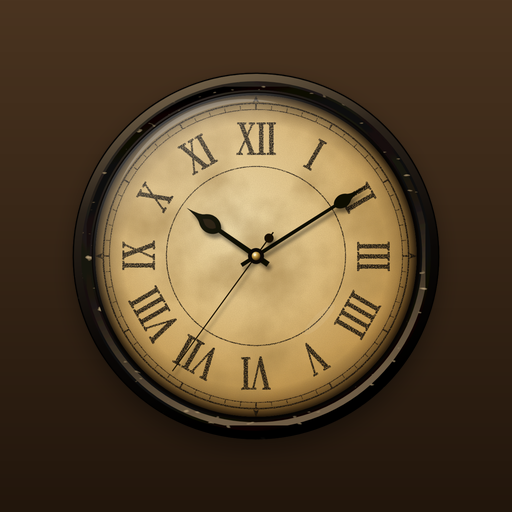
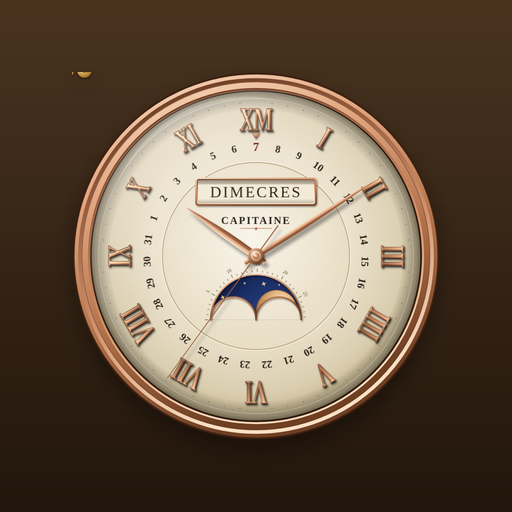
Add files via upload

diff --git a/index.html b/index.html
@@ -817,7 +817,8 @@
   /* finestres verticals */
   html.nit .full-cara *{ color:var(--nit) !important; text-shadow:none !important; }
   html.nit .full-titol::before, html.nit .full-titol::after{ background: var(--nit) !important; }
-  html.nit .icona-cel{ filter: grayscale(1) sepia(1) saturate(7) hue-rotate(-28deg) brightness(.95); }
+  /* de nit, les icones del temps en el mateix taronja, però apagat i difuminat (no enlluernen) */
+  html.nit .icona-cel, html.nit .h12 svg, html.nit .d5 svg{ filter: url(#filtreNitIcona); }
   html.nit .avisos li{ background: rgba(255,90,31,.08) !important; border-left-color: var(--nit) !important; }
   html.nit .avisos svg{ stroke:var(--nit) !important; }
 
@@ -907,8 +908,13 @@
   </div>
 </div>
 <svg width="0" height="0" style="position:absolute" aria-hidden="true">
+  <!-- de nit: la icona del temps passa al taronja de nit, apagat i amb la vora difuminada -->
+  <filter id="filtreNitIcona" color-interpolation-filters="sRGB" x="-10%" y="-10%" width="120%" height="120%">
+    <feColorMatrix type="matrix" values="0.13 0.45 0.045 0 0   0.046 0.157 0.016 0 0   0.016 0.054 0.005 0 0   0 0 0 1 0" result="t"/>
+    <feGaussianBlur in="t" stdDeviation="0.9"/>
+  </filter>
   <filter id="filtreLume" color-interpolation-filters="sRGB">
-    <feColorMatrix type="matrix" values="0.05 0.1 0.02 0 0   0.33 0.62 0.12 0 0.08   0.12 0.22 0.04 0 0.02   0 0 0 1 0"/>
+    <feColorMatrix type="matrix" values="0.03 0.055 0.011 0 0   0.18 0.34 0.066 0 0.03   0.066 0.12 0.022 0 0.01   0 0 0 1 0"/>
   </filter>
 </svg>
 <div class="botonera-esq">
@@ -1366,7 +1372,7 @@ window.__aniv = (function(){
     ombresBusques(defs, 'a');
     gradient(defs, 'linearGradient', 'aNegre', {x1:'0', y1:'0', x2:'1', y2:'0'}, [['0%','#030201'],['42%','#1d1710'],['52%','#5a4e40'],['100%','#060403']]);
 
-    // Corona bisellada esglaonada (la mateixa de BLANCPAIN), en coure vell enfosquit
+    // Corona bisellada esglaonada (la mateixa de CAPITAINE), en coure vell enfosquit
     gradient(defs, 'linearGradient', 'aCoure', {x1:'0', y1:'0', x2:'0.35', y2:'1'}, [['0%','#d6a77f'],['30%','#a36a45'],['62%','#6e4127'],['100%','#331a0c']]);
     gradient(defs, 'linearGradient', 'aCoureInv', {x1:'0.35', y1:'1', x2:'0', y2:'0'}, [['0%','#c99772'],['35%','#8a5636'],['70%','#55301b'],['100%','#28140a']]);
     const fCV = el('filter', {id:'aCoureVell', x:'0', y:'0', width:'100%', height:'100%'}, defs);
@@ -1428,14 +1434,14 @@ window.__aniv = (function(){
       el('path', {d:'M 0,-8 L 5,4 L 0,1.5 L -5,4 Z', transform:`translate(${px(254,a)} ${py(254,a)}) rotate(${a})`, stroke:'none', fill:'#1a1209', class:'lume'}, tinta);
     }
     numeralRomans(tinta, 194, 66, {stroke:'none', fill:'#1a1209'}, {sx:0.7, sy:1.22, ls:-2}).classList.add('lume');
-    // Marca de la casa a la meitat inferior: «XM», amb la mateixa lletra que les XII de BLANCPAIN
+    // Marca de la casa a la meitat inferior: «XM», amb la mateixa lletra que les XII de CAPITAINE
     const marcaA = el('g', {transform:`translate(${C} ${C+82}) scale(0.72 1.18)`}, tinta);
     el('text', {x:0, y:0, 'text-anchor':'middle', 'dominant-baseline':'central', 'font-family':'Cinzel, serif', 'font-weight':700,
       'font-size':38, 'letter-spacing':-1, stroke:'none', fill:'#1a1209'}, marcaA).textContent = 'XM';
     el('line', {x1:C-22, y1:C+108, x2:C+22, y2:C+108, stroke:'#1a1209', 'stroke-width':.9}, tinta);
     el('path', {d:`M ${C},${C+105} L ${C+3},${C+108} L ${C},${C+111} L ${C-3},${C+108} Z`, stroke:'none', fill:'#1a1209'}, tinta);
 
-    // ---- Visor del dia de la setmana (com el de BLANCPAIN, però amb fons de pergamí) ----
+    // ---- Visor del dia de la setmana (com el de CAPITAINE, però amb fons de pergamí) ----
     const AX = C-80, AY = C-114, AW = 160, AH = 34;
     gradient(defs, 'linearGradient', 'aVisorPaper', {x1:'0', y1:'0', x2:'0', y2:'1'}, [['0%','#f1dcae'],['55%','#e6c993'],['100%','#d4b072']]);
     gradient(defs, 'linearGradient', 'aOmbraVisor', {x1:'0', y1:'0', x2:'0', y2:'1'}, [['0%','#2a1604',.42],['24%','#2a1604',0],['80%','#2a1604',0],['100%','#2a1604',.28]]);
@@ -1603,7 +1609,7 @@ window.__aniv = (function(){
     // ---- Nom de la casa, imprès a l'esfera ----
     const nomCasa = el('text', {x:C, y:C-58, 'text-anchor':'middle', 'dominant-baseline':'central',
       'font-family':'Cinzel, serif', 'font-weight':700, 'font-size':17, 'letter-spacing':2.2, fill:'#2c241c'}, svg);
-    nomCasa.textContent = 'BLANCPAIN';
+    nomCasa.textContent = 'CAPITAINE';
     el('line', {x1:C-26, y1:C-45, x2:C+26, y2:C-45, stroke:'#b97752', 'stroke-width':.9}, svg);
     el('path', {d:`M ${C},${C-48} L ${C+3},${C-45} L ${C},${C-42} L ${C-3},${C-45} Z`, fill:'url(#cOrRosa)'}, svg);
 
@@ -1758,7 +1764,7 @@ window.__aniv = (function(){
     gradient(defs, 'radialGradient', 'dLluna', {cx:'40%', cy:'35%', r:'70%'}, [['0%','#fbfbf7'],['55%','#d9dad6'],['100%','#9c9fa3']]);
     gradient(defs, 'radialGradient', 'dCrater', {cx:'45%', cy:'40%', r:'60%'}, [['0%','#8e9195',.55],['70%','#a9acaf',.35],['100%','#ffffff',.25]]);
     gradient(defs, 'radialGradient', 'dOmbraInt', {cx:'50%', cy:'50%', r:'50%'}, [['84%','#3a2a14',0],['96%','#3a2a14',.22],['100%','#2a1a08',.5]]);
-    // Verd maragda: el mateix dels dissabtes a la finestra de BLANCPAIN
+    // Verd maragda: el mateix dels dissabtes a la finestra de CAPITAINE
     gradient(defs, 'linearGradient', 'dMaragdaV', {x1:'0', y1:'0', x2:'0', y2:'1'}, [['0%','#1f8a64'],['50%','#0f6b4c'],['100%','#094a35']]);
     gradient(defs, 'linearGradient', 'dBurdeusV', {x1:'0', y1:'0', x2:'0', y2:'1'}, [['0%','#9a2a24'],['50%','#7a1a16'],['100%','#55100e']]);
     gradient(defs, 'linearGradient', 'dCobaltV', {x1:'0', y1:'0', x2:'0', y2:'1'}, [['0%','#2f62c4'],['50%','#0047ab'],['100%','#002e73']]);
@@ -1838,7 +1844,7 @@ window.__aniv = (function(){
     const turons = `A ${HR} ${HR} 0 0 0 ${C} ${CUSP} A ${HR} ${HR} 0 0 0 ${px(226,-angE)} ${py(226,-angE)}`;
     el('path', {d:`M ${px(226,-angE)} ${py(226,-angE)} A 226 226 0 0 1 ${px(226,angE)} ${py(226,angE)} ${turons} Z`}, clipCel);
     const cel = el('g', {'clip-path':'url(#dClipCel)'}, svg);
-    // Disc del firmament: gira mitja volta per llunació (com el de BLANCPAIN); la lluna plena passa sota el 12
+    // Disc del firmament: gira mitja volta per llunació (com el de CAPITAINE); la lluna plena passa sota el 12
     const firmament = el('g', {}, cel);
     el('circle', {cx:C, cy:C, r:228, fill:'url(#dCel)'}, firmament);
     gradient(defs, 'radialGradient', 'dViaLactia', {cx:'50%', cy:'50%', r:'50%'}, [['0%','#9fb4ff',.18],['100%','#9fb4ff',0]]);
@@ -1849,7 +1855,7 @@ window.__aniv = (function(){
       if (s > 0.9) el('path', {d:'M0,-5 L1.2,-1.2 L5,0 L1.2,1.2 L0,5 L-1.2,1.2 L-5,0 L-1.2,-1.2 Z', transform:`translate(${px(r,a).toFixed(1)} ${py(r,a).toFixed(1)}) scale(${(0.6+s*0.5).toFixed(2)})`, fill:'#fffbe8', class:'estel', style:`animation-delay:${(i*0.37)%2.6}s`}, firmament);
       else el('circle', {cx:px(r,a).toFixed(1), cy:py(r,a).toFixed(1), r:(0.4+s*1.1).toFixed(2), fill:'#ffffff', opacity:(0.35+s*0.6).toFixed(2)}, firmament);
     }
-    // estels grossos amb raigs, com els de BLANCPAIN, repartits pel cel
+    // estels grossos amb raigs, com els de CAPITAINE, repartits pel cel
     [[-150,-40,1.4],[-95,-120,1.1],[30,-150,1.25],[120,-95,1.0],[160,20,1.3],[95,110,1.1],[-20,160,1.2],[-120,95,1.0],[-60,40,.8],[60,-30,.85],[-170,60,.9],[150,-150,.8]].forEach(([x,y,s],i)=>{
       el('path', {d:'M0,-7 L1.4,-1.4 L7,0 L1.4,1.4 L0,7 L-1.4,1.4 L-7,0 L-1.4,-1.4 Z', transform:`translate(${C+x} ${C+y}) scale(${s})`, fill:'#fff6da', class:'estel', style:`animation-delay:${(i*0.53)%2.6}s`}, firmament);
     });
@@ -2016,7 +2022,7 @@ window.__aniv = (function(){
       const d = ara.getDate();
       busDataRot.setAttribute('transform', `rotate(${((d-1)*360/31).toFixed(2)} ${C} ${C})`);
       textosData.forEach((t,i)=> t.setAttribute('fill', (i+1)===d ? '#b3261e' : '#2c241c'));
-      // dies de la setmana (dilluns primer) i el d'avui destacat amb els colors de BLANCPAIN
+      // dies de la setmana (dilluns primer) i el d'avui destacat amb els colors de CAPITAINE
       const iAvui = (ara.getDay()+6)%7;
       const fe = festiu(ara);
       textosDia.forEach((t,i)=>{

diff --git a/sw.js b/sw.js
@@ -1,6 +1,6 @@
 // Service worker de República: permet obrir l'app sense connexió.
 // Canvia VERSIO cada cop que pugis una nova versió de l'index.html.
-const VERSIO = 'republica-v50';
+const VERSIO = 'republica-v51';
 const BASICS = ['./', './index.html', './manifest.webmanifest',
   './icones/apple-touch-icon.png', './icones/icona-192.png', './icones/icona-512.png',
   './icones/icona-maskable-512.png', './icones/favicon-32.png'];
